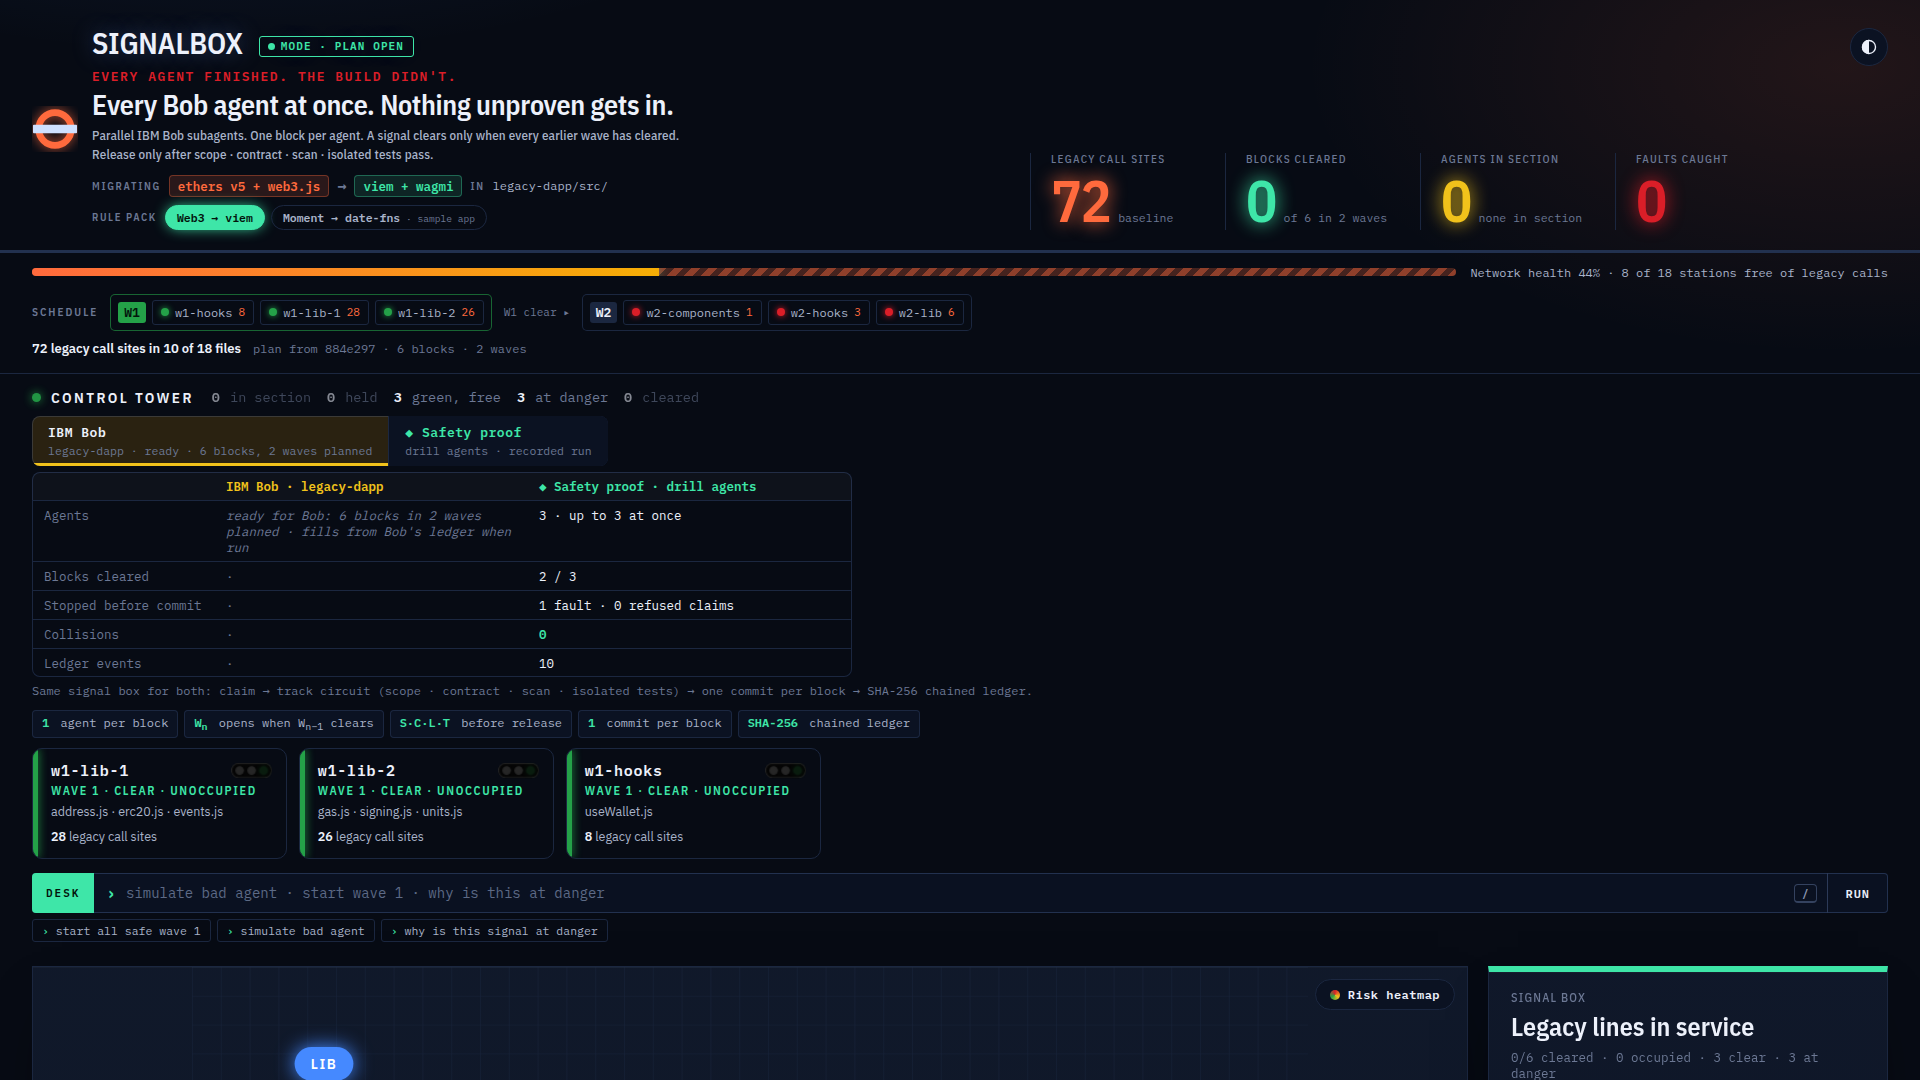
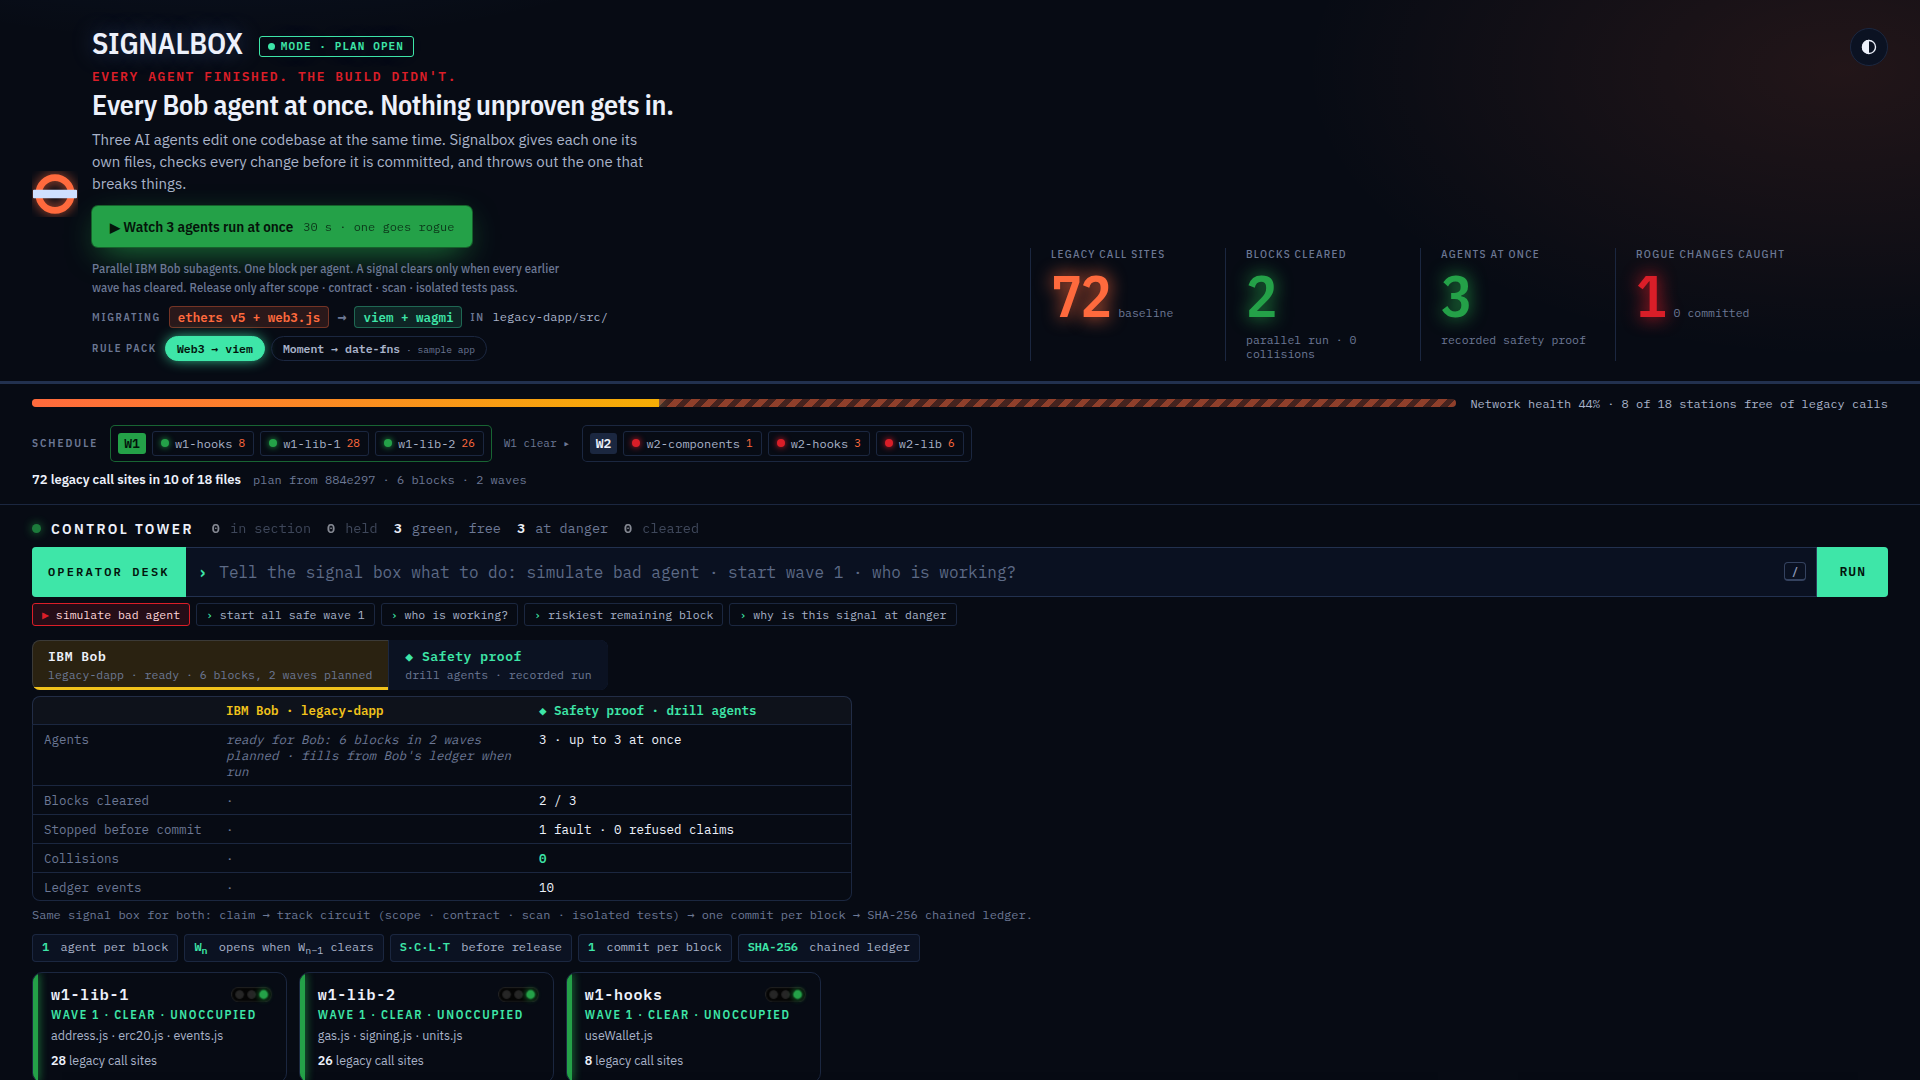
Submission media: panel image of the new landing; demo script points to demo.webm
Claude-Session: https://claude.ai/code/session_01BpaNfmVPrYku2iviHeT8ef

diff --git a/docs/submission/DEMO_SCRIPT.md b/docs/submission/DEMO_SCRIPT.md
@@ -21,6 +21,11 @@ agent (0:32–1:12) → the release (1:12–1:30). Record it from https://bob-ch
 ready clip `docs/submission/media/proof.webm` covers 0:40–1:30 (re-record with `npm run record:proof`).
 It claims nothing about a Bob run: the BOB side shows the plan, the proof uses labelled drill agents.
 
+**Ready-made, no editing:** `docs/submission/media/demo.webm` (70 s, 1920×1080, on-screen captions,
+no voice) is this cut recorded end to end: `npm run record:demo`. Upload it as is, or talk over it.
+Recording by hand? Open https://bob-chainguard.vercel.app/?still (a first visit without `?still` plays
+the parallel run by itself), or press **▶ Watch 3 agents run at once** instead of typing in the desk.
+
 **If you complete a recorded IBM Bob run**, insert 15 s of it after 0:32 (BOB-1/2/3 working at once,
 one held at the signal) and say: "These are IBM Bob's own subagents under the same signal box."
 
